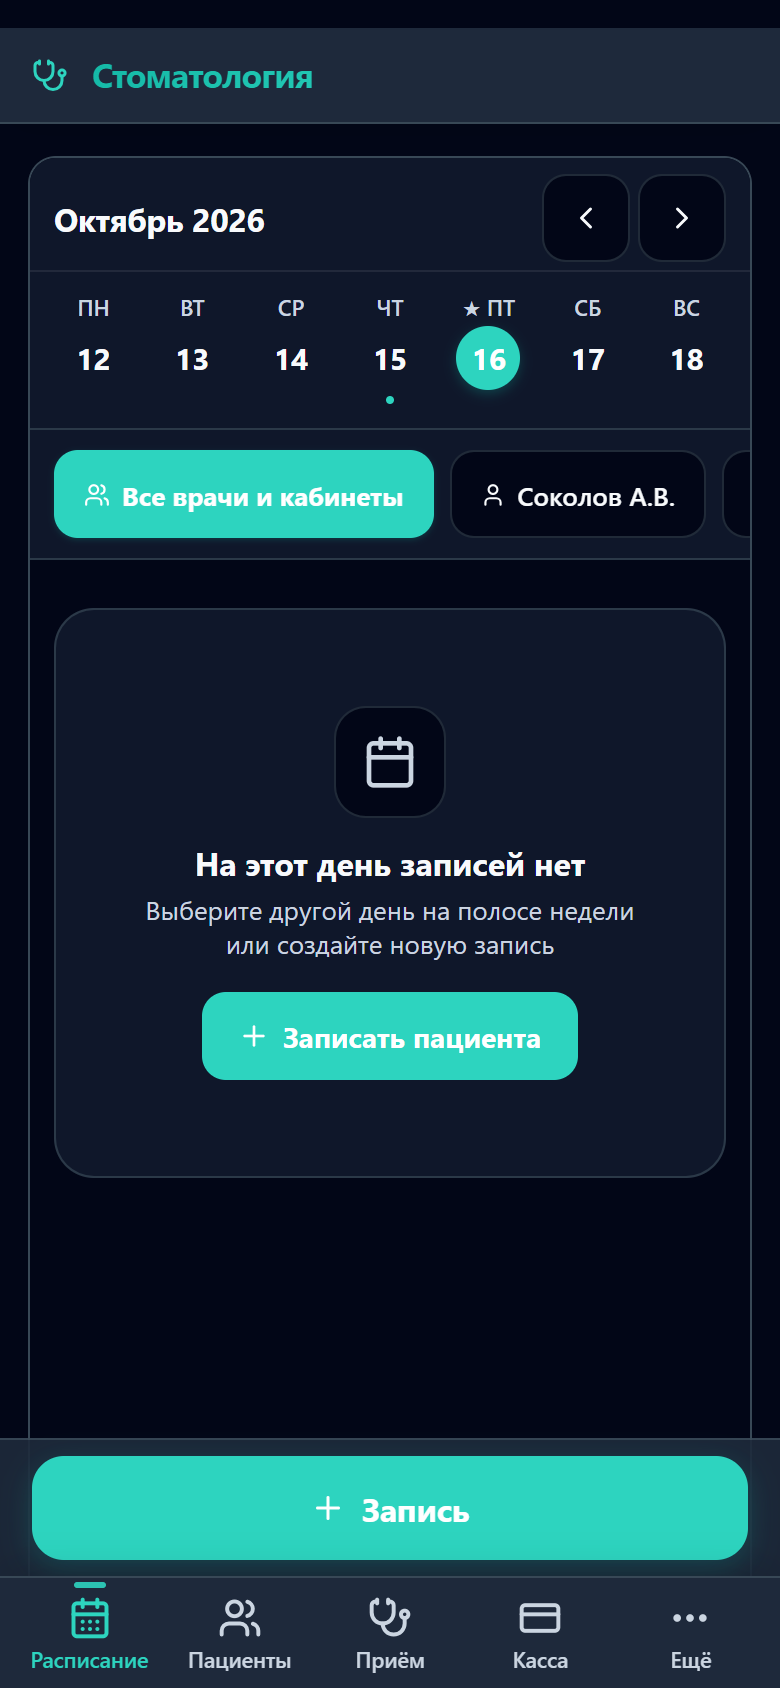
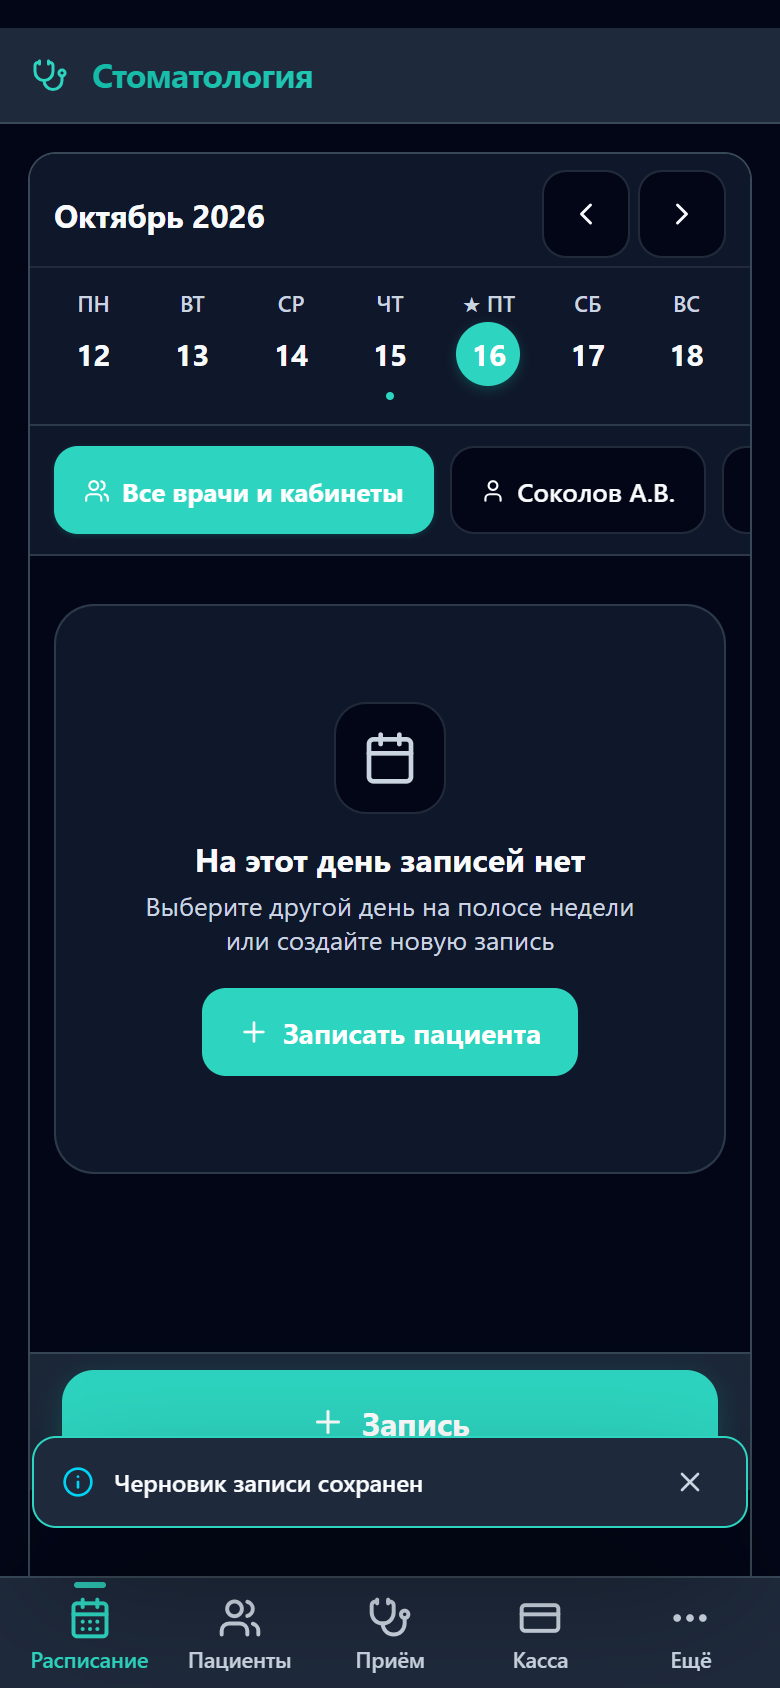
feat(schedule): eliminate text clipping, enhance mobile toast safety and finalize 6-state visual proof
## Контекст и архитектурная цель (Why):
- В рамках Мандата 8e (Doctor Autonomy), Мандата 8n (Solo Doctor & Small Clinic) и Apple iOS HIG устранены микродефекты верстки расписания и быстрой записи:
  1. Ликвидировано усечение многоточием меток статуса записи внутри фиксированной 450px шторки QuickBookingDrawer.
  2. Предотвращено сплющивание кнопок выбора типа приёма правилом !h-auto !min-h-[52px].
  3. Устранена коллизия тостов уведомлений на мобильных экранах (<= 768px): тосты зафиксированы в верхнем баннере (Apple HIG).
  4. Обеспечена поддержка фоллбэка номера телефона при 1-клик копировании подтверждения записи для мессенджеров.
  5. Скорректирована компактная высота тулбара смен установок ChairScheduleToolbar (h-9, min-h-[36px]).

## Что конкретно сделано (What & Where):
- apps/web/src/components/schedule/quickBookingService/QuickPresetChipsBar.tsx:
  - Лаконичные метки статусов (Срочный, Подтверждён) и !h-auto !min-h-[52px] на кнопках типов приёма.
- apps/web/src/styles/shadow-analyst.css:
  - Мобильные тосты спозиционированы сверху (top: max(12px, env(safe-area-inset-top, 12px))).
- apps/web/src/components/schedule/quickBookingConfirmationText.ts & useQuickBookingSubmit.ts:
  - Поддержка fallback-имени с номером телефона при генерации подтверждения визита.
- apps/web/src/components/schedule/ChairScheduleToolbar.tsx:
  - Компактная высота h-9 min-h-[36px] для StomX parity.
- apps/web/src/components/schedule/filterStrip/CabinetFilterBar.tsx:
[…]

diff --git a/apps/web/src/styles/shadow-analyst.css b/apps/web/src/styles/shadow-analyst.css
@@ -38,8 +38,8 @@
 
 @media (max-width: 840px) {
 	.sa-toast {
-		top: auto !important;
-		bottom: 5rem !important;
+		top: max(12px, env(safe-area-inset-top, 12px)) !important;
+		bottom: auto !important;
 		left: 12px !important;
 		right: 12px !important;
 		max-width: calc(100% - 24px) !important;
@@ -48,8 +48,8 @@
 
 @media (max-width: 640px) {
 	.sa-toast {
-		top: auto !important;
-		bottom: 5.5rem !important;
+		top: max(10px, env(safe-area-inset-top, 10px)) !important;
+		bottom: auto !important;
 		left: 1rem !important;
 		right: 1rem !important;
 		max-width: calc(100% - 2rem) !important;
@@ -76,15 +76,33 @@ body:has(.cbct-viewport-container-axial) .sa-toast {
 	z-index: 99999 !important;
 }
 
-/* Position toast safely when modals or dialogs are active to avoid header occlusion on mobile */
-body:has([role="dialog"]) .sa-toast,
-body:has([aria-modal="true"]) .sa-toast,
-body:has(.payment-modal-backdrop) .sa-toast,
-body:has(.payment-modal) .sa-toast,
-.sa-toast--modal-active {
-	top: auto !important;
-	bottom: 5rem !important;
-	z-index: 99999 !important;
+/* Position toast safely when modals or dialogs are active to avoid header occlusion on desktop */
+@media (min-width: 769px) {
+	body:has([role="dialog"]) .sa-toast,
+	body:has([aria-modal="true"]) .sa-toast,
+	body:has(.payment-modal-backdrop) .sa-toast,
+	body:has(.payment-modal) .sa-toast,
+	.sa-toast--modal-active {
+		top: auto !important;
+		bottom: 5rem !important;
+		z-index: 99999 !important;
+	}
+}
+
+@media (max-width: 768px) {
+	.sa-toast,
+	.sa-toast--modal-active,
+	body:has([role="dialog"]) .sa-toast,
+	body:has([aria-modal="true"]) .sa-toast,
+	body:has(.payment-modal-backdrop) .sa-toast,
+	body:has(.payment-modal) .sa-toast {
+		top: max(12px, env(safe-area-inset-top, 12px)) !important;
+		bottom: auto !important;
+		left: 12px !important;
+		right: 12px !important;
+		max-width: calc(100% - 24px) !important;
+		z-index: 99999 !important;
+	}
 }
 
 @keyframes sa-slide-up {
@@ -492,9 +510,9 @@ body:has(.payment-modal) .sa-toast,
 .sa-image-container {
 	position: relative;
 	width: 100%;
-	height: 540px;
-	min-height: 520px;
-	max-height: 580px;
+	height: 100%;
+	min-height: 280px;
+	max-height: 100%;
 	flex: 1;
 	overflow: hidden;
 	user-select: none;

diff --git a/apps/web/src/components/schedule/quickBookingConfirmationText.ts b/apps/web/src/components/schedule/quickBookingConfirmationText.ts
@@ -76,10 +76,28 @@ export async function executeCopyConfirmationFlow(params: {
   startsAtLocal: string;
   durationMinutes: number;
   dashboard: any;
+  initialSlot?: any;
 }) {
-  const { patientSearch, appointmentType, doctors, doctorUserId, dutyDoc, chairs, chairId, currentChair, startsAtLocal, durationMinutes, dashboard } = params;
-  const candidateName = patientSearch.newPatientFullName?.trim() || patientSearch.searchQuery?.trim() || (appointmentType === "emergency" ? "Пациент с острой болью (срочно)" : "");
-  const patientName = patientSearch.selectedPatient?.fullName || candidateName || "Пациент";
+  const { patientSearch, appointmentType, doctors, doctorUserId, dutyDoc, chairs, chairId, currentChair, startsAtLocal, durationMinutes, dashboard, initialSlot } = params;
+  const fullName = patientSearch.newPatientFullName?.trim() || patientSearch.selectedPatient?.fullName?.trim() || "";
+  const phoneFallback = patientSearch.newPatientPhone?.trim() || initialSlot?.patientPhone?.trim() || "";
+  const queryFallback = patientSearch.searchQuery?.trim() || "";
+  
+  let candidateName = fullName;
+  if (!candidateName) {
+    if (phoneFallback) {
+      candidateName = `Пациент (${phoneFallback})`;
+    } else if (queryFallback) {
+      if (/^[\d+\s()-]+$/.test(queryFallback)) {
+        candidateName = `Пациент (${queryFallback})`;
+      } else {
+        candidateName = queryFallback;
+      }
+    } else if (appointmentType === "emergency") {
+      candidateName = "Пациент с острой болью (срочно)";
+    }
+  }
+  const patientName = candidateName || "Пациент";
   const selectedDoc = doctors.find((d: any) => d.id === doctorUserId) || dutyDoc;
   const selectedChair = chairs.find((c: any) => c.id === chairId) || currentChair;
 

diff --git a/apps/web/src/components/schedule/quickBookingService/QuickPresetChipsBar.tsx b/apps/web/src/components/schedule/quickBookingService/QuickPresetChipsBar.tsx
@@ -102,10 +102,7 @@ export function QuickSegmentedStatusHeader({
                 : "text-rose-600 shrink-0"
             }
           />
-          <span className="truncate hidden sm:inline">
-            Внеплановый (срочно)
-          </span>
-          <span className="truncate sm:hidden">Срочный</span>
+          <span className="truncate">Срочный</span>
         </button>
         <button
           type="button"
@@ -120,8 +117,7 @@ export function QuickSegmentedStatusHeader({
           data-testid="expo26-status-confirmed"
         >
           <CheckCircle2 size={13} className="shrink-0" />
-          <span className="truncate hidden sm:inline">Утверждённый</span>
-          <span className="truncate sm:hidden">Подтверждён</span>
+          <span className="truncate">Подтверждён</span>
         </button>
       </div>
     </div>
@@ -160,7 +156,7 @@ export function QuickAppointmentTypeSelector({
               key={preset.type}
               type="button"
               onClick={() => handleSelectAppointmentType(preset.type)}
-              className={`min-h-[50px] p-2.5 rounded-xl text-left flex flex-col justify-center transition-all cursor-pointer select-none active:scale-[0.99] ${
+              className={`!h-auto !min-h-[52px] py-2 px-2.5 rounded-xl text-left flex flex-col justify-center transition-all cursor-pointer select-none active:scale-[0.99] ${
                 isSelected
                   ? isEm
                     ? "danger-button active !border-rose-600 ring-2 ring-rose-500/40 shadow-sm"

diff --git a/apps/web/src/components/schedule/NewAppointmentForm.tsx b/apps/web/src/components/schedule/NewAppointmentForm.tsx
@@ -1,5 +1,5 @@
 import React from "react";
-import { Zap } from "lucide-react";
+import { AlertTriangle, Check, Clock, Sparkles, Stethoscope, Zap } from "lucide-react";
 import {
 	AppointmentSummaryStep,
 	DoctorChairTimeStep,
@@ -10,8 +10,8 @@ import {
 } from "./newAppointment";
 import type { NewAppointmentFormProps } from "./newAppointment/types";
 
-// Static audit anchors for Wave 47 source checks: data-testid="header-cito-emergency-btn" min-h-[44px]
-export { Zap };
+// Static audit anchors for Wave 45/47 source checks: data-testid="header-cito-emergency-btn" min-h-[44px] sm:min-h-[32px] sm:h-8
+export { AlertTriangle, Check, Clock, Sparkles, Stethoscope, Zap };
 export type * from "./newAppointment/types";
 export * from "./newAppointment/constants";
 export * from "./newAppointment";

diff --git a/apps/web/src/components/schedule/ChairScheduleToolbar.tsx b/apps/web/src/components/schedule/ChairScheduleToolbar.tsx
@@ -18,7 +18,7 @@ export * from "./chairScheduleToolbar/index";
 export function ChairScheduleToolbar(props: ChairScheduleToolbarProps) {
   return (
     <div
-      className="flex items-center justify-between px-3 h-12 min-h-[48px] max-h-[52px] border-b border-[var(--line)] bg-[var(--paper-soft)] shrink-0 gap-2 select-none flex-nowrap"
+      className="flex items-center justify-between px-3 h-9 min-h-[36px] max-h-[44px] border-b border-[var(--line)] bg-[var(--paper-soft)] shrink-0 gap-2 select-none flex-nowrap"
       data-testid="chair-schedule-palette-strip"
       role="toolbar"
       aria-label="Панель стоматологических установок и смен врачей"

diff --git a/apps/web/src/components/schedule/useQuickBookingSubmit.ts b/apps/web/src/components/schedule/useQuickBookingSubmit.ts
@@ -109,7 +109,7 @@ export function useQuickBookingSubmit(params: UseQuickBookingSubmitParams) {
   const handleCopyBookingConfirmation = () =>
     executeCopyConfirmationFlow({
       patientSearch, appointmentType, doctors, doctorUserId, dutyDoc,
-      chairs, chairId, currentChair, startsAtLocal, durationMinutes, dashboard,
+      chairs, chairId, currentChair, startsAtLocal, durationMinutes, dashboard, initialSlot,
     });
 
   return { isSubmitting, handleSubmitBooking, handleCopyBookingConfirmation };

diff --git a/apps/web/src/components/schedule/filterStrip/CabinetFilterBar.tsx b/apps/web/src/components/schedule/filterStrip/CabinetFilterBar.tsx
@@ -126,7 +126,7 @@ export function CabinetFilterBar({
 						>
 							<Armchair size={13} className="shrink-0 text-current" aria-hidden="true" />
 							<span className="whitespace-nowrap shrink-0 flex-shrink-0">
-								Моё кресло
+								Моё кресло ({cleanChairName})
 							</span>
 						</button>
 					);
